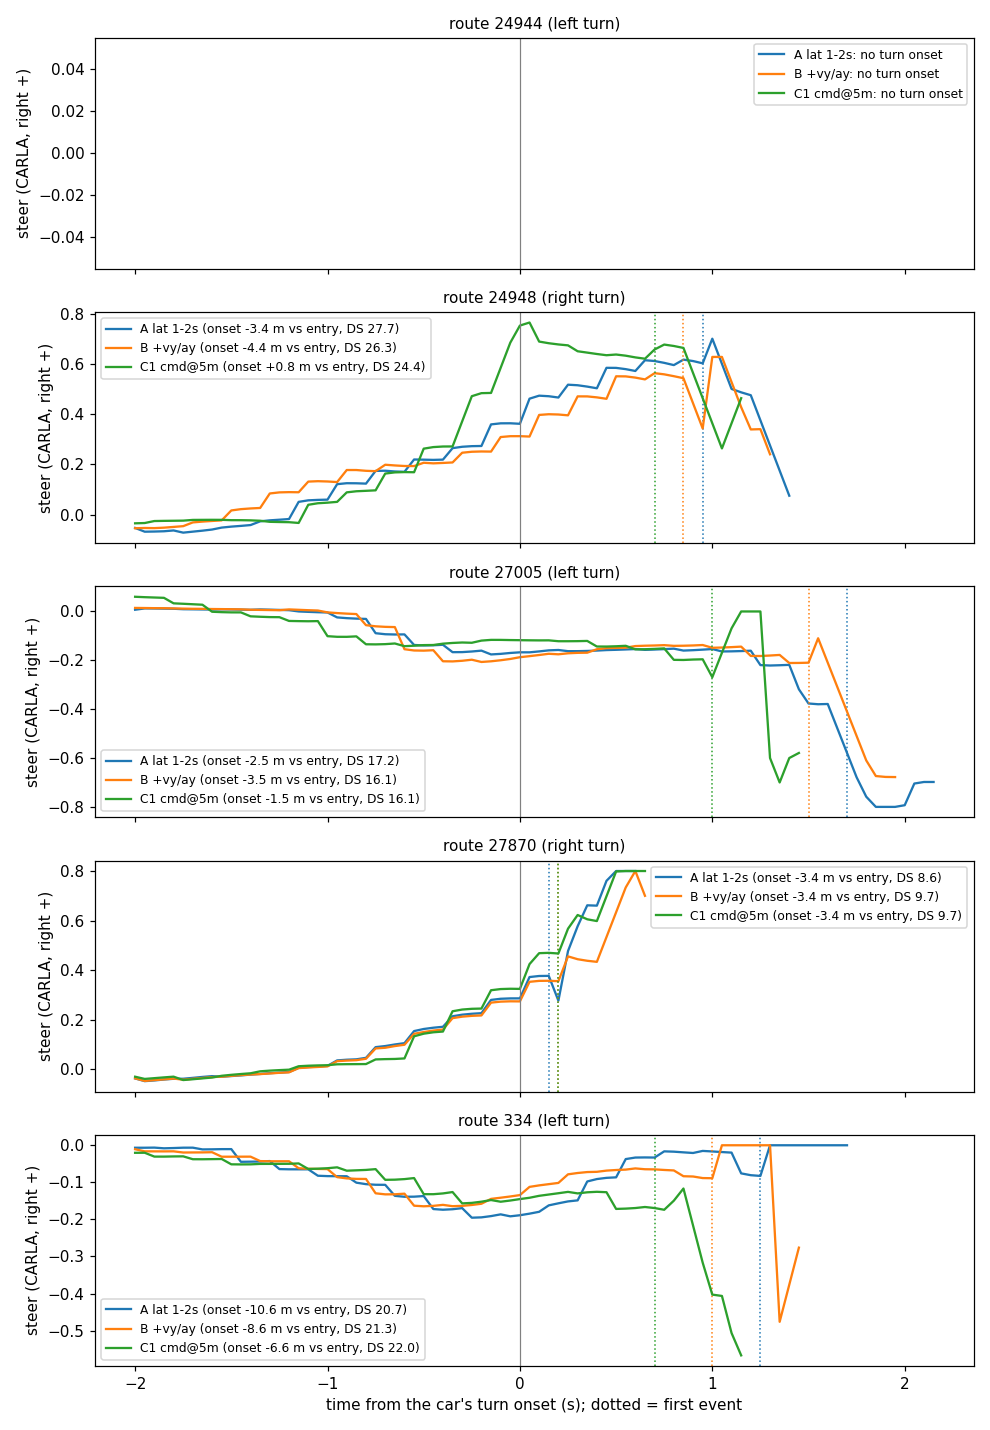
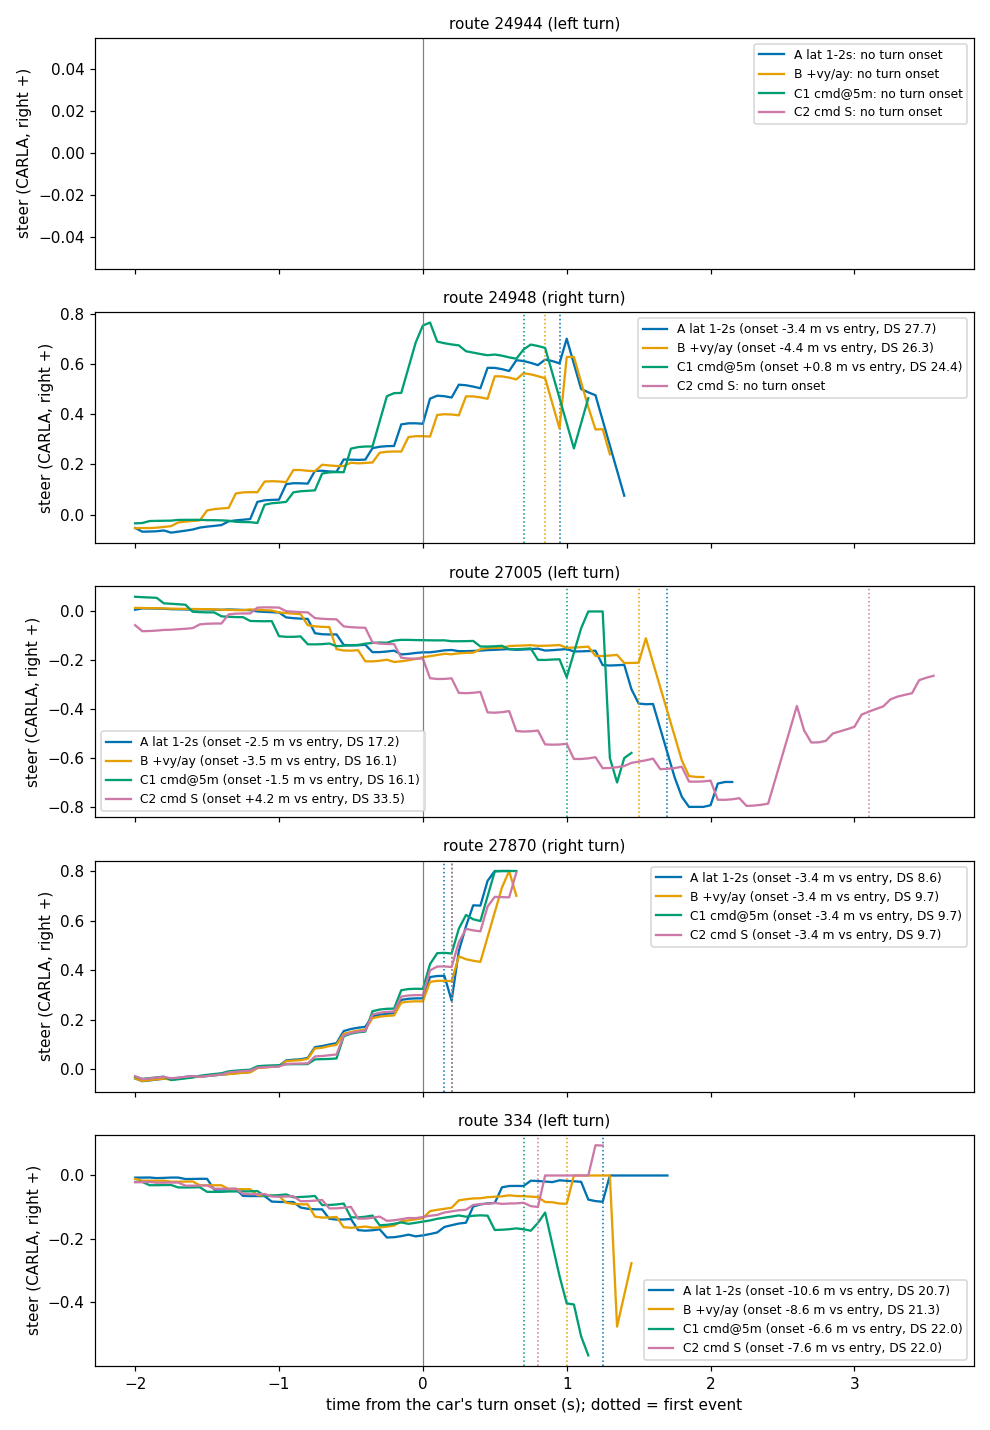
b2d_monitor: landing check (24721 DS 100 from the landed paths, py_compile 3.8 / 3.11, rsg_turns re-read), steer_A_B_C1_C2 regenerated with C2, palette-compressed screenshots, C2 off-route note

diff --git a/experiments/b2d_monitor/README.md b/experiments/b2d_monitor/README.md
@@ -35,7 +35,7 @@ RSG on B2D is closed by the user; the monitor stays live as a tool.
 - `rsg_b2d.md` (results): RSG-L18-s0 in the Bench2Drive loop
 - `stage1_cinque.md` (results): shipped Cinque driving Bench2Drive on …
 
-[results/](results/) 2 result files · [figs/](figs/) 4 figures · [lib/](lib/) 2 library · [scripts/](scripts/) 16 entry points
+[results/](results/) 2 result files · [figs/](figs/) 5 figures · [lib/](lib/) 2 library · [scripts/](scripts/) 16 entry points
 <!-- files:end -->
 
 ## What it is
@@ -114,6 +114,20 @@ The agent publishes `state["phase"]`, drawn as the coloured tag in the viewer's 
 timer in N s)`, `the plan stops`, `lead MPC`, `starting (<mode>)`, `stop latch (plan asked to stop)`. `LOADING` is the viewer's own
 (no fresh state: map loading or between routes). Use it to tell a model that will not move (RSG at standstill) from a stalled loop.
 
+## Landing check (2026-10-13 19:35 JST)
+
+From the landed paths on Tokyo, card 0, windowed, `server.sh` + `loop.sh 24721 cfg/op_alone_smooth.json` with the landed viewer: route
+24721 DS 100, RC 100, 1474 ticks, the car moves at 5.85 s (FIX1 launch), `phase` / model / config / overlays published
+(`$DATA_DIR/runs/b2d_monitor/runs/loop-1013-1935-p1`); the loop's second pass with the kept map (`VIZ_REUSE_WORLD` default) also DS 100
+but 1382 ticks (`loop-1013-1936-p2`): a kept world is not the same rollout, hence the rule above. `py_compile` of every `.py` passes
+under envs/carla (3.8.20) and envs/op-train (3.11.11); `rsg_server.py`, `sh30_core`, `pai_core`, `rsg_pack`, `rmem` import under op-train.
+`rsg_turns.py` reproduces the memory ON / OFF, C1 and C2 rows of `results/rsg_b2d.md`.
+
+![the landed viewer, shipped Cinque on 24721](figs/viewer_cinque_24721_landed.png)
+
+`figs/viewer_cinque_24721_landed.png`: the landing check above (pass 2). Look at the top bar (`DRIVING` phase tag, model, config,
+route, progress), the blue route with the 10 / 20 / 40 / 80 m marks and openpilot's yellow plan on it, and the picker's DS 100.
+
 ## Figures
 
 ![RSG-L18-s0 on 334, 7 m before a left turn](figs/viewer_rsg_334_left.png)
@@ -135,7 +149,8 @@ fed `parity_ego` row.
 Look at the ramps from ~2 s before the onset, nearly the same in both arms, and the onsets in the legends (-12.6 vs -10.6 m on 334, equal
 on the right turns): the longer aim only softens the steer after the onset; it does not move the early turn.
 
-![steer around the turn onset, arms A / B / C1](figs/steer_A_B_C1_C2.png)
+![steer around the turn onset, arms A / B / C1 / C2](figs/steer_A_B_C1_C2.png)
 
-`figs/steer_A_B_C1_C2.png`: the same for arms A, B (+ vy / ay) and C1 (L/R within 5 m); C2 is not drawn (the plotting script then
-had three colours; fixed since). Look at 334 and 24948: only C1 moves the onset (legend), B lies on A.
+`figs/steer_A_B_C1_C2.png`: the same for arms A, B (+ vy / ay), C1 (L/R within 5 m) and C2 (command S), regenerated with the landed
+`steer_plot.py` (the Tokyo original dropped the 4th arm). Look at the legends: B lies on A everywhere; C1 moves the onset later on 334
+and 24948; C2 makes 27005 turn late and smoothly (+4.2 m) and makes no turn at all on 24948.

diff --git a/experiments/b2d_monitor/results/rsg_b2d.md b/experiments/b2d_monitor/results/rsg_b2d.md
@@ -62,16 +62,18 @@ is 2-4 m off the route; on 334 the 4 s pose aims ~24 m past the entry). Every tu
 | 27870 right (+4.4) | -3.4, 9.7 | -3.4, 8.6 | -3.4, 9.7 | -3.4, 9.7 | -3.4, 9.7 |
 | 24944 left (+4.5) | pole before the turn, 6.4 | 5.9 | off-route, 9.1 | 6.4 | 5.9 |
 
-Cells: car onset (m vs entry), DS. Runs: t4 = `rsg-on-t4`; A `loop-1013-1852-p1` (`cfg/rsg_lat12.json`, P7 aim
+Cells: car onset (m vs entry), DS. First event: a collision in every cell except C2 on 24948 and 27005 (off route), so C2's higher DS
+there (43.7, 33.5) is distance driven before leaving the route, not a completed turn. The default command switches to L / R 18.4-19.6 m
+before the entry on 334, 27005, 24948 and 10.4 m on 27870 (`cmd_on_m` of `rsg_turns.py`). Runs: t4 = `rsg-on-t4`; A `loop-1013-1852-p1` (`cfg/rsg_lat12.json`, P7 aim
 `cfg/P7_la15.json`); B `loop-1013-1903-p1` (`rsg_lat12_vy`; `loop-1013-1902-*` invalid, server bug); C1 `loop-1013-1907-p1`
-(`rsg_lat12_c1`); C2 `loop-1013-1910-p1` (`rsg_lat12_c2`). "flip" = where the command switched to L / R in C1 (m vs entry); in the
-default the switch is 18-20 m before the entry.
+(`rsg_lat12_c1`); C2 `loop-1013-1910-p1` (`rsg_lat12_c2`). "flip" = where the command switched to L / R in C1 (m vs entry).
 
 Reading: the executor horizon (A vs t4) and vy / ay (B) change nothing material. The 18-20 m L/R command is the main onset lever: flipping
 it at 5 m delays the onset by ~4 m on 334 (-10.6 -> -6.6) and 24948 (-3.4 -> +0.8; 24948 then enters within +-3 m of the route onset
 +1.6). With no turn command (C2) the memory alone times the 27005 left turn (+4.2 vs route +5.4 m) but does not make the 24948 right turn;
 334 turns early even with no command (scene / junction-mouth trigger). The steer is a ramp from ~2 s before onset in every arm (the car
-follows a plan that already curves): `figs/steer_lat12_vs_t4.png`, `figs/steer_A_B_C1_C2.png`.
+follows a plan that already curves): `figs/steer_lat12_vs_t4.png`, `figs/steer_A_B_C1_C2.png`. The memory ON / OFF, C1 and C2 rows were re-read with the landed `scripts/rsg_turns.py`
+on 2026-10-13 ~19:35 JST: identical.
 
 ## Start delay
 
